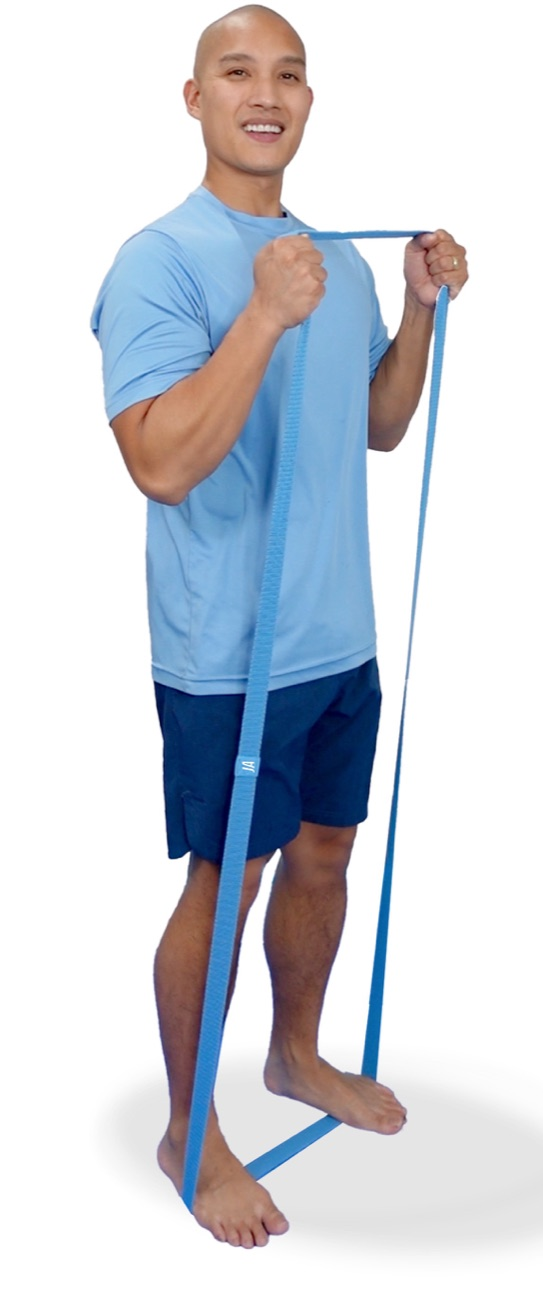
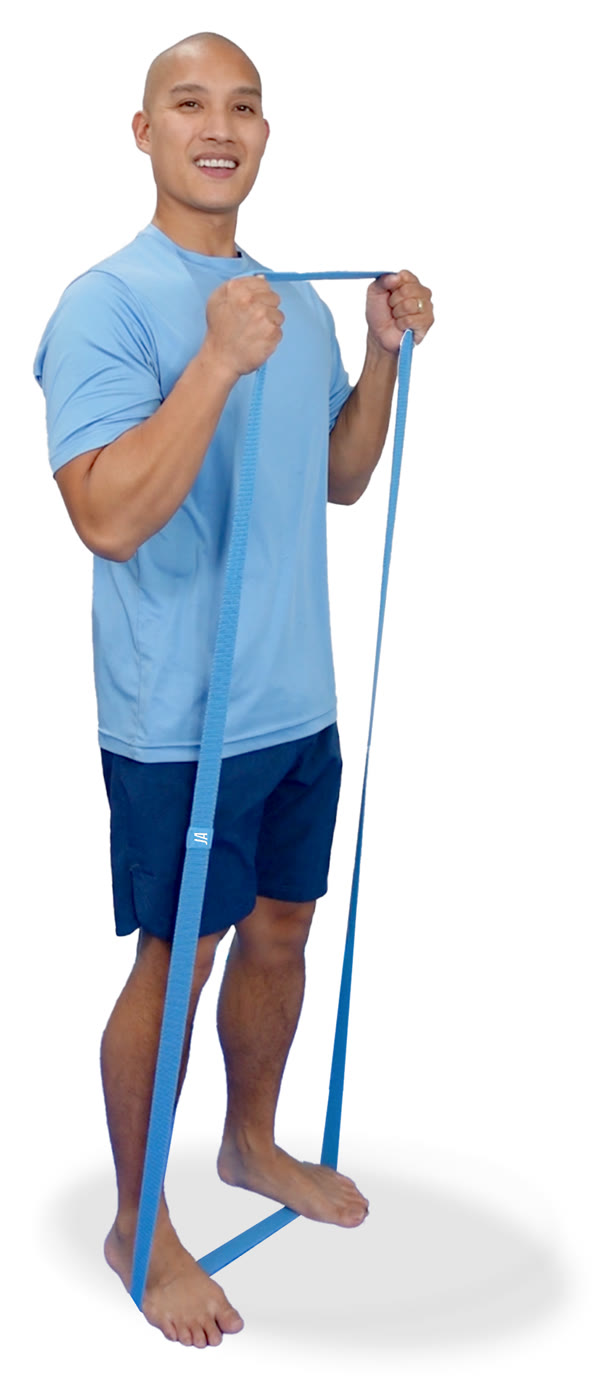
Re-crop hero cutout so the floor shadow isn't clipped

diff --git a/index.html b/index.html
@@ -15,7 +15,7 @@
 <link rel="preconnect" href="https://fonts.googleapis.com">
 <link rel="preconnect" href="https://fonts.gstatic.com" crossorigin>
 <link href="https://fonts.googleapis.com/css2?family=Inter:wght@700;800&family=Source+Sans+3:ital,wght@0,400..700;1,400..600&display=swap" rel="stylesheet">
-<link rel="stylesheet" href="styles.css?v=8">
+<link rel="stylesheet" href="styles.css?v=9">
 
 <script type="application/ld+json">
 {
@@ -68,7 +68,7 @@
 <section class="hero" id="top">
   <div class="hero__in wrap">
     <figure class="hero__fig">
-      <img src="assets/img/justin-hero.jpg" alt="Justin Agustin standing and exercising with a blue fabric band looped under his foot" width="541" height="1288" fetchpriority="high">
+      <img src="assets/img/justin-hero.jpg" alt="Justin Agustin standing and exercising with a blue fabric band looped under his foot" width="616" height="1400" fetchpriority="high">
       <figcaption>
         <b>Justin Agustin</b><span>· Creator</span>
       </figcaption>
